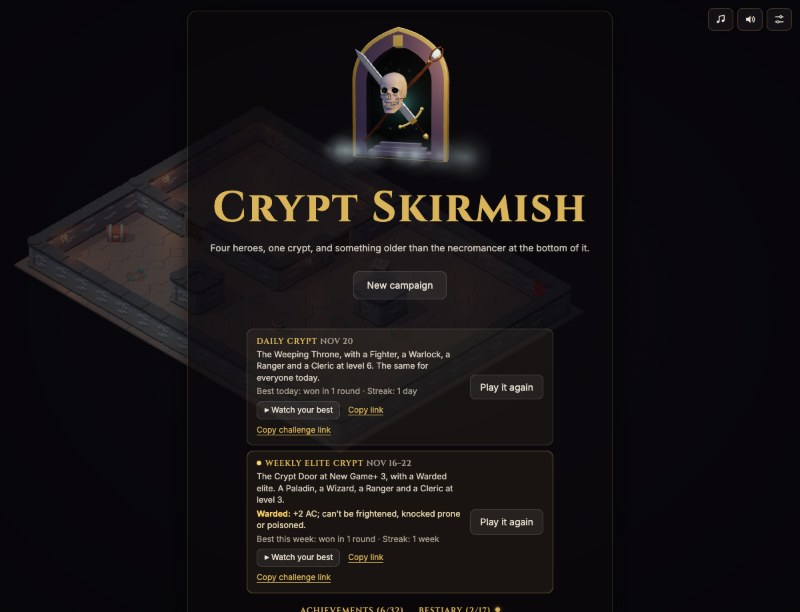
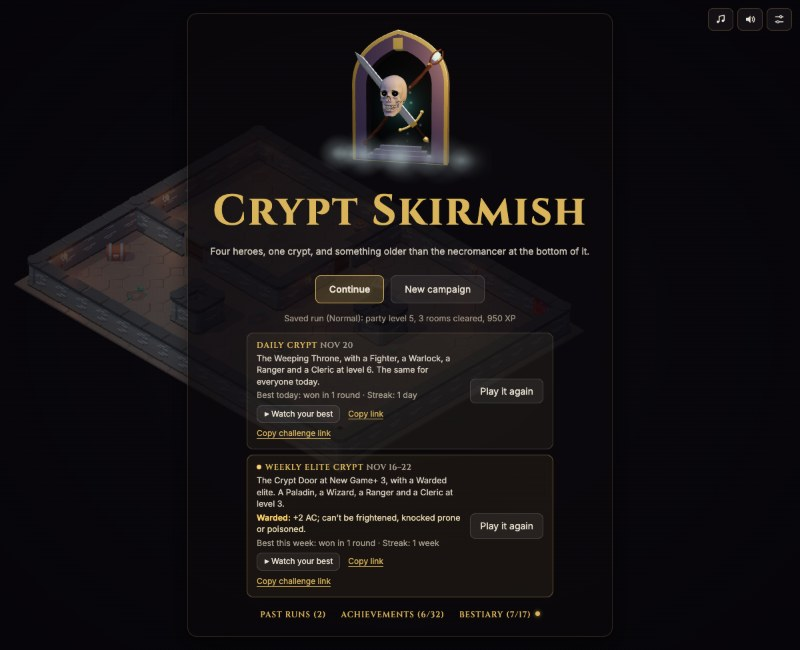
Stage a saved run in the title still and flare the skull's eyes at the title buttons

diff --git a/src/render/titleLogo.js b/src/render/titleLogo.js
@@ -16,8 +16,9 @@ const poked = () => { try { return localStorage.getItem(POKED_KEY) === '1'; } ca
 
 /**
  * Swap `img` (the flat emblem) for the 3D logo once it has loaded. Keeps the image on any
- * failure and resolves to null then; otherwise to `{ poke(move?) }`, which plays the next
- * move (or the named one) with its sound. `hint`: pulse a glow until the skull is clicked.
+ * failure and resolves to null then; otherwise to `{ poke(move?), glance() }`: poke plays the
+ * next move (or the named one) with its sound, glance makes its eyes flare for a moment.
+ * `hint`: pulse a glow until the skull is clicked.
  */
 export async function mountTitleLogo(img, { className = 'title-logo', hint = true } = {}) {
   const canvas = document.createElement('canvas');
@@ -88,6 +89,7 @@ export async function mountTitleLogo(img, { className = 'title-logo', hint = tru
     }
   };
   canvas.addEventListener('click', (e) => { if (onSkull(e)) poke(); });
+  const glance = () => { if (!calm()) anim.glance(); };
   // The embers in its sockets follow the pointer around the page (and drift back when it leaves).
   addEventListener('pointermove', (e) => {
     const r = canvas.getBoundingClientRect();
@@ -102,7 +104,7 @@ export async function mountTitleLogo(img, { className = 'title-logo', hint = tru
     last = performance.now();
     R.setAnimationLoop(e.isIntersecting ? frame : null);
   }).observe(canvas);
-  return { poke };
+  return { poke, glance };
 }
 
 function buildScene(scene, env) {
@@ -297,7 +299,7 @@ function animator({ G, skull, eyes, orb, torch, cold, mist, wisps, halo, jaw }) 
   let t = 0;
   // Now and then: a chatter, a slow gape, a cocked head, or the torch guttering. A click adds
   // a laugh and a lunge, and plays the moves in turn.
-  const ev = { chatter: 0, gape: 0, twitch: 0, tilt: 0, flare: 0, gutter: 0, laugh: 0, lunge: 0, next: 2.5 };
+  const ev = { chatter: 0, gape: 0, twitch: 0, tilt: 0, flare: 0, gutter: 0, laugh: 0, lunge: 0, glance: 0, next: 2.5 };
   const since = (at) => (at ? t - at : 99);
   const schedule = () => {
     const r = Math.random();
@@ -344,7 +346,8 @@ function animator({ G, skull, eyes, orb, torch, cold, mist, wisps, halo, jaw }) 
     torch.intensity = still ? 40 : (38 + Math.sin(t * 13) * 3 + Math.sin(t * 7.3) * 4 + Math.random() * 3) * gutter;
 
     // The eyes and the crystal pulse, and flare with the chatter and in the dark.
-    const f = since(ev.flare), flare = !still && f < 1.4 ? Math.exp(-f * 2.5) * 3 : lurch * 2.5;
+    const f = since(ev.flare), gl = since(ev.glance);
+    const flare = still ? 0 : (f < 1.4 ? Math.exp(-f * 2.5) * 3 : lurch * 2.5) + (gl < 1.2 ? Math.exp(-gl * 3) * 2.2 : 0);
     const p = still ? 1 : 0.65 + 0.35 * Math.sin(t * 2);
     cold.intensity = 8 * p + flare * 10;
     const ease = still ? 1 : Math.min(1, dt * 5);
@@ -379,6 +382,8 @@ function animator({ G, skull, eyes, orb, torch, cold, mist, wisps, halo, jaw }) 
 
   pose.hint = false;
   pose.look = { x: 0, y: 0 }; // the pointer, -1 to 1 each way from the skull
+  /** A short, soft flare of the eyes (the pointer or focus reaching a title button). */
+  pose.glance = () => { if (since(ev.glance) > 0.5) ev.glance = t; };
   /** Play the next move (or `name`) now, hold off the random ones for a moment, and return its name. */
   pose.poke = (name) => {
     if (!MOVES.includes(name)) name = MOVES[move++ % MOVES.length];

diff --git a/src/main.js b/src/main.js
@@ -211,6 +211,15 @@ function bannerSkull(move) {
   bannerSkull.mounting.then((l) => { bannerLogo = l; setTimeout(() => l?.poke(move), 900); });
 }
 
+// The title's skull glances at a button as the pointer or the keyboard focus reaches it.
+const titleEl = document.getElementById('title');
+const onButton = (ev) => {
+  const b = ev.target.closest?.('button');
+  if (b && ev.relatedTarget?.closest?.('button') !== b) titleLogo?.glance();
+};
+titleEl.addEventListener('pointerover', onButton);
+titleEl.addEventListener('focusin', onButton);
+
 // K: the skull on the title (or the end banner) plays its next move.
 window.addEventListener('keydown', (ev) => {
   if (ev.code !== 'KeyK' || ev.repeat || ev.altKey || ev.metaKey || ev.ctrlKey || replay) return;

diff --git a/README.md b/README.md
@@ -9,7 +9,7 @@ Turn-based, isometric dungeon tactics in the browser, built with three.js and SR
 | | |
 | --- | --- |
 | ![Hovering Burning Hands shows what the spell does](docs/screenshots/tooltip.jpg) | ![Nekhet's character card in the Hollow Tomb: HP, AC, his Rotting Fist and what happens at half HP](docs/screenshots/card.jpg) |
-| ![The camp after the Sunken Halls: the party reaches level 8 and finds an Amulet of Health, and the map offers the Black Armory or the Ember Hearth before the Tomb](docs/screenshots/camp.jpg) | ![The title screen: the 3D skull in its crypt doorway, a new campaign, the daily and weekly elite crypts, and links to achievements and the bestiary](docs/screenshots/title.jpg) |
+| ![The camp after the Sunken Halls: the party reaches level 8 and finds an Amulet of Health, and the map offers the Black Armory or the Ember Hearth before the Tomb](docs/screenshots/camp.jpg) | ![The title screen: the 3D skull in its crypt doorway, a saved run to continue, the daily and weekly elite crypts, and links to past runs, achievements and the bestiary](docs/screenshots/title.jpg) |
 | ![The bestiary: monster cards with a line of lore and how many were slain, and the Elites section with each trait and how many you've slain](docs/screenshots/bestiary.jpg) | ![A won New Game+ 2 campaign: the skull laughing over the run's facts, 13 elites slain by trait, and each hero's damage, kills, crits, healing and falls](docs/screenshots/victory.jpg) |
 | ![Nekhet bloodied in the Hollow Tomb: his dead rise, and Ice Storm's frost covers the floor](docs/screenshots/tomb.jpg) | ![Wren's sneak attack on a Fallen Knight in the Black Armory, a wraith close behind](docs/screenshots/armory.jpg) |
 | <img src="docs/screenshots/phone.jpg" alt="The boss room on a phone, with the specters' reach striped red" width="240"> | <img src="docs/screenshots/phone-card.jpg" alt="Holding Nekhet on a phone opens his character card" width="240"> |
@@ -138,9 +138,9 @@ It runs on desktop and on phones.
   If an update moves the week to another room, its best starts again there.
 - **Achievements:** 32 goals that carry across runs. Open them from the title screen.
 - **The title's skull** gapes, chatters and twitches on its own, and the embers in its eyes
-  follow the pointer. Click or tap it (or press K) to play its moves in turn, each with its own
-  sound: gape, chatter, cocked head, laugh, lunge and the torch guttering. A faint glow behind
-  it pulses until the first click. It laughs on the won-campaign screen and chatters at you
+  follow the pointer and flare at the title's buttons. Click or tap it (or press K) to play its
+  moves in turn, each with its own sound: gape, chatter, cocked head, laugh, lunge and the
+  torch guttering. A faint glow behind it pulses until the first click. It laughs on the won-campaign screen and chatters at you
   after a defeat, and a still of it shows while the game loads and on the saved run card. With
   Data Saver on or on a 2G connection the title keeps the flat emblem.
 - **Bestiary:** every monster you've met, with its character card, a line of lore and how

diff --git a/CLAUDE.md b/CLAUDE.md
@@ -45,7 +45,7 @@ server on 5173.
   `emblem.svg` once the skull in `public/models/skull/` loads, and draws only while the title
   is on screen. Without WebGL, with Data Saver or on 2G the flat emblem stays. Clicking the
   skull (or K) plays its moves in turn with `sfx.skull(move)`; a glow hints at it until the first
-  click; its eyes follow the pointer (`pose.look`). The end banner mounts a second one that
+  click; its eyes follow the pointer (`pose.look`) and flare at the title's buttons (`glance`). The end banner mounts a second one that
   laughs at the won campaign and chatters after a defeat (`bannerSkull` in `main.js`).
   `public/boot-logo.jpg` (the boot screen, the run card), the app icons, `og-image.jpg` and the
   title and victory screenshots are stills of it: `npm run stills` re-renders them.
